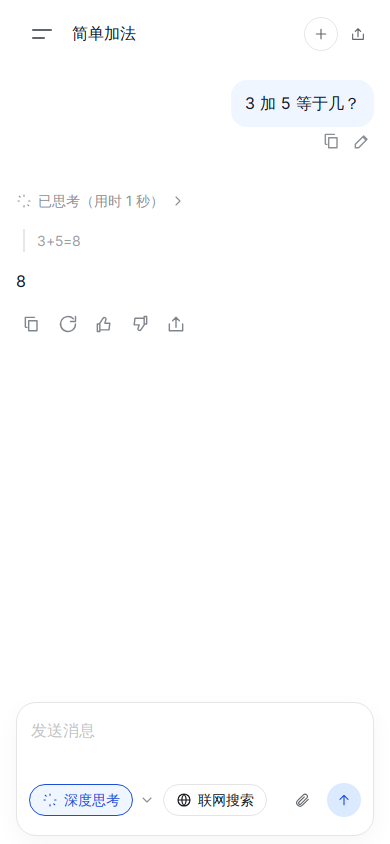
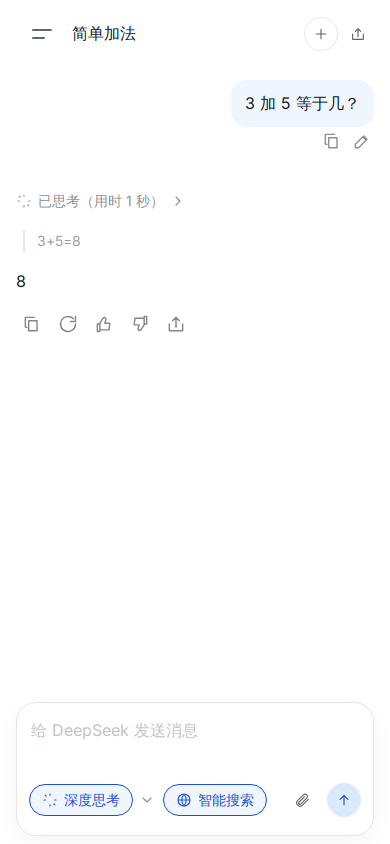
Turn thinking and smart search on by default.
The landing and the composer both start with 深度思考 and 智能搜索 enabled, and the placeholder matches the official composer.

Changed region(s): [[0.0923, 0.8318, 0.4923, 0.8934], [0.4308, 0.9242, 0.6462, 0.955]]

diff --git a/packages/i18n/src/index.ts b/packages/i18n/src/index.ts
@@ -5,7 +5,7 @@ const zh = {
   product: 'Harbor for DeepSeek',
   tagline: '密钥只留在本机。',
   landingTitle: '对话留在本机',
-  landingPlaceholder: '问点什么，一起探索',
+  landingPlaceholder: '给 DeepSeek 发送消息',
   startChat: '开始对话',
   apiPlatform: 'API 开放平台',
   github: 'GitHub',
@@ -27,12 +27,12 @@ const zh = {
   rename: '重命名',
   delete: '删除',
   deleteConfirm: '从本机删除这个对话？',
-  composerPlaceholder: '发送消息',
+  composerPlaceholder: '给 DeepSeek 发送消息',
   send: '发送',
   stop: '停止',
   regenerate: '重新生成',
   thinking: '深度思考',
-  search: '联网搜索',
+  search: '智能搜索',
   readLink: '打开网页',
   model: '模型',
   effort: '思考强度',
@@ -216,7 +216,7 @@ const en: { [K in keyof typeof zh]: string } = {
   product: 'Harbor for DeepSeek',
   tagline: 'Your key stays on this device.',
   landingTitle: 'Your chats stay here',
-  landingPlaceholder: 'Ask anything',
+  landingPlaceholder: 'Message DeepSeek',
   startChat: 'Start a chat',
   apiPlatform: 'API platform',
   github: 'GitHub',
@@ -238,12 +238,12 @@ const en: { [K in keyof typeof zh]: string } = {
   rename: 'Rename',
   delete: 'Delete',
   deleteConfirm: 'Delete this chat from this device?',
-  composerPlaceholder: 'Send a message',
+  composerPlaceholder: 'Message DeepSeek',
   send: 'Send',
   stop: 'Stop',
   regenerate: 'Regenerate',
   thinking: 'Thinking',
-  search: 'Search',
+  search: 'Smart search',
   readLink: 'Open pages',
   model: 'Model',
   effort: 'Effort',

diff --git a/apps/web/e2e/chat.spec.ts b/apps/web/e2e/chat.spec.ts
@@ -140,7 +140,6 @@ test('chats with mocks, switches tools, and round-trips an export', async ({ pag
 
   await page.getByTestId('new-chat').click()
   await page.getByTestId('toggle-thinking').click()
-  await page.getByTestId('toggle-search').click()
   await page.getByTestId('composer').fill('冰岛现在大约多少人口？')
   await page.getByTestId('send').click()
   await page.getByTestId('search-results').click()
@@ -219,7 +218,6 @@ test('phone layout matches the docked chat, drawer, and sheets', async ({ page }
   await page.screenshot({ path: join(shots, 'm-thinking.png') })
   await page.getByRole('button', { name: '新对话' }).click()
   await page.getByTestId('toggle-thinking').click()
-  await page.getByTestId('toggle-search').click()
   await page.getByTestId('composer').fill('冰岛现在大约多少人口？')
   await page.getByTestId('send').click()
   await expect(page.getByTestId('assistant-text')).toContainText('394,000')
@@ -267,6 +265,7 @@ test('landing and key step at desktop and phone sizes', async ({ page }) => {
   await install(page)
   await page.setViewportSize({ width: 1280, height: 800 })
   await page.goto('/')
+  await expect(page.getByRole('heading', { name: '对话留在本机' })).toBeVisible()
   await page.screenshot({ path: join(shots, 'landing-light-1280.png') })
   await page.setViewportSize({ width: 390, height: 844 })
   await page.screenshot({ path: join(shots, 'landing-mobile.png') })

diff --git a/apps/web/src/ui.tsx b/apps/web/src/ui.tsx
@@ -99,7 +99,7 @@ export const KeyGate = () => {
   const [keyOpen, setKeyOpen] = useState(false)
   const [draft, setDraft] = useState('')
   const [think, setThink] = useState(true)
-  const [search, setSearch] = useState(false)
+  const [search, setSearch] = useState(true)
   const [error, setError] = useState('')
 
   const onSave = (event: FormEvent) => {
@@ -173,7 +173,7 @@ export const KeyGate = () => {
                     <Icon d="M12 3v2M12 19v2M4.9 4.9l1.4 1.4M17.7 17.7l1.4 1.4M3 12h2M19 12h2" /> {t('thinking')}
                   </button>
                   <button type="button" className={search ? 'chip on' : 'chip'} onClick={() => setSearch((value) => !value)}>
-                    <Icon d="M11 19a8 8 0 100-16 8 8 0 000 16zM21 21l-4.3-4.3" /> {t('search')}
+                    <Icon d="M12 21a9 9 0 1 0 0-18 9 9 0 0 0 0 18ZM3 12h18M12 3a14 14 0 0 1 0 18M12 3a14 14 0 0 0 0 18" /> {t('search')}
                   </button>
                 </div>
                 <button className={`send ${draft.trim() ? 'ready' : ''}`} data-testid="landing-send" type="submit" aria-label={t('send')}>

diff --git a/packages/i18n/src/i18n.test.ts b/packages/i18n/src/i18n.test.ts
@@ -5,8 +5,9 @@ describe('i18n', () => {
   it('uses the full product name in both languages', () => {
     expect(translate('zh', 'product')).toBe('Harbor for DeepSeek')
     expect(translate('en', 'product')).toBe('Harbor for DeepSeek')
-    expect(translate('zh', 'composerPlaceholder')).toBe('发送消息')
-    expect(translate('en', 'composerPlaceholder')).toBe('Send a message')
+    expect(translate('zh', 'composerPlaceholder')).toBe('给 DeepSeek 发送消息')
+    expect(translate('en', 'composerPlaceholder')).toBe('Message DeepSeek')
+    expect(translate('zh', 'search')).toBe('智能搜索')
     expect(translate('en', 'imported', { added: 2, skipped: 1 })).toBe('Imported 2, skipped 1.')
   })
 

diff --git a/apps/web/src/store.ts b/apps/web/src/store.ts
@@ -55,7 +55,7 @@ type Prefs = Pick<Conversation, 'model' | 'thinking' | 'search' | 'readLink' | '
 const defaultPrefs = (): Prefs => ({
   model: 'deepseek-flash',
   thinking: true,
-  search: false,
+  search: true,
   readLink: false,
   effort: 'high',
 })
